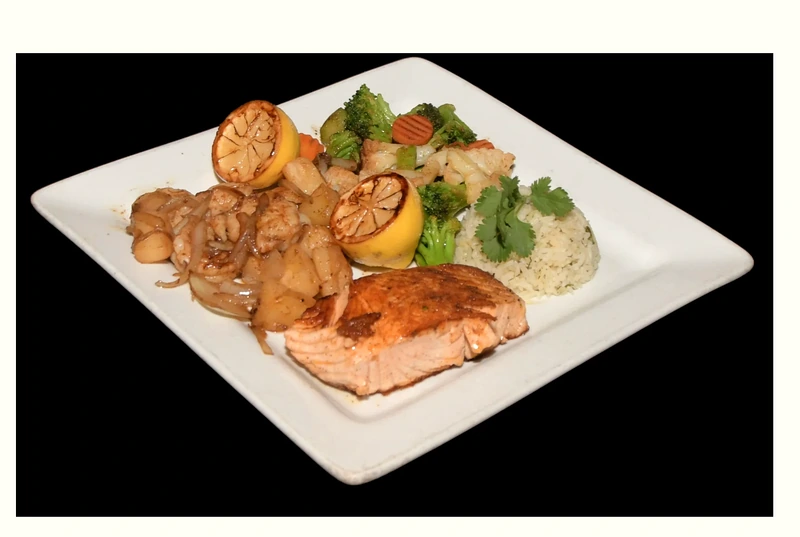
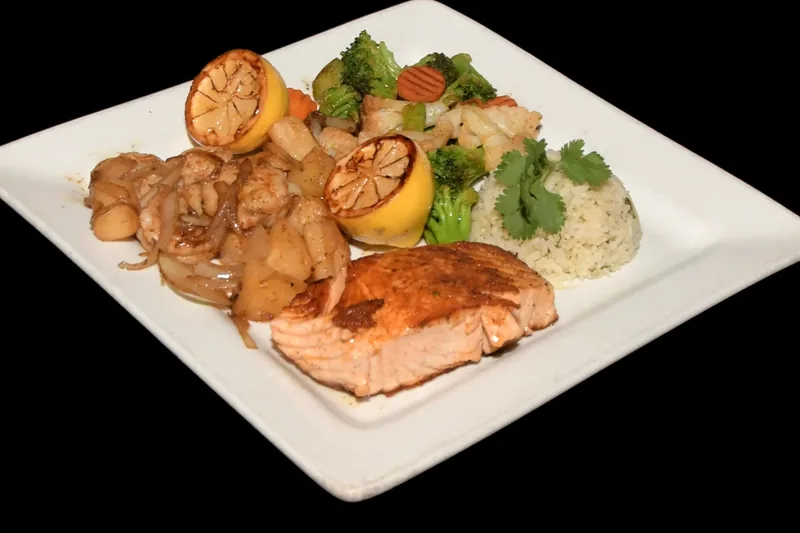
Crop the white matte off the four plate photos
cfs, catfish, tacos and salmon each arrived with a white matte around
the frame. The plates underneath were shot on black, so the matte was
the only light part of the picture: on a near-black page it read as a
white slab interrupting the layout rather than as photography. The
three-up grid on the home page looked like three white cards.

Each web derivative is now cropped to the largest 3:2 rectangle inside
the food, found by flood-filling the seamless backdrop in from the
border. A plain brightness threshold would not do — the plates are white
too, and would have been trimmed along with the backdrop.

Light backdrop as a share of the frame:

  cfs      29.0% -> 1.9%
  tacos    25.5% -> 4.0%
  catfish  23.5% -> 2.1%
  salmon   18.2% -> 0.0%

The crops are smaller than the originals, so each srcset ladder now
stops at the real pixel width rather than upscaling: the 2000w and 2560w
rungs are gone where the source no longer reaches them, and cafe.ts
carries the true intrinsic width and height. Total payload for these
four photos drops by roughly 40%.

The .jpg files are left untouched as the archival originals; re-crop
from those, not from the derivatives. PHOTO-SOURCES.md records this.

public/photos/manifest.json is not read by any code and was already
stale for other entries, but its rows for these four no longer name
deleted files.

Claude-Session: https://claude.ai/code/session_01SY9t9RvGNQkpaYygABwXDT

diff --git a/src/lib/cafe.ts b/src/lib/cafe.ts
@@ -8,16 +8,13 @@ export const CAFE = {
   addressLine: "120 W Center St, Sheridan, AR 72150",
   phoneDisplay: "(870) 942-4163",
   phoneTel: "+18709424163",
-  facebook:
-    "https://www.facebook.com/p/Lady-Birds-Cafe-100089774571141/",
+  facebook: "https://www.facebook.com/p/Lady-Birds-Cafe-100089774571141/",
   mapsDirections:
     "https://www.google.com/maps/dir/?api=1&destination=120+W+Center+St,+Sheridan,+AR+72150",
-  mapsSearch:
-    "https://www.google.com/maps/search/?api=1&query=120+W+Center+St,+Sheridan,+AR+72150",
+  mapsSearch: "https://www.google.com/maps/search/?api=1&query=120+W+Center+St,+Sheridan,+AR+72150",
   mapsEmbed:
     "https://maps.google.com/maps?q=120%20W%20Center%20St%2C%20Sheridan%2C%20AR%2072150&z=16&output=embed",
-  appleMaps:
-    "https://maps.apple.com/?daddr=120+W+Center+St,+Sheridan,+AR+72150",
+  appleMaps: "https://maps.apple.com/?daddr=120+W+Center+St,+Sheridan,+AR+72150",
   timezone: "America/Chicago",
   promise: "Downtown Sheridan. Plate comes out hot.",
   hoursStatus: "directory" as const,
@@ -25,11 +22,7 @@ export const CAFE = {
 } as const;
 
 export type PhotoSource =
-  | "facebook"
-  | "facebook-guest"
-  | "arkansas-living"
-  | "directory-guest"
-  | "directory";
+  "facebook" | "facebook-guest" | "arkansas-living" | "directory-guest" | "directory";
 
 export type Photo = {
   src: string;
@@ -53,42 +46,42 @@ export const photos = {
   catfish: {
     src: "/photos/catfish.webp",
     srcSet:
-      "/photos/catfish-800.webp 800w, /photos/catfish-1400.webp 1400w, /photos/catfish-2000.webp 2000w, /photos/catfish-2560.webp 2560w",
-    width: 2560,
-    height: 1627,
+      "/photos/catfish-800.webp 800w, /photos/catfish-1400.webp 1400w, /photos/catfish-1888.webp 1888w",
+    width: 1888,
+    height: 1259,
     alt: "Fried catfish plate on a metal tray with hush puppies, steak fries, coleslaw, fried corn, and shrimp",
     source: "arkansas-living",
   },
   cfs: {
     src: "/photos/cfs.webp",
-    srcSet:
-      "/photos/cfs-800.webp 800w, /photos/cfs-1400.webp 1400w, /photos/cfs-2000.webp 2000w, /photos/cfs-2560.webp 2560w",
-    width: 2560,
-    height: 1690,
+    srcSet: "/photos/cfs-800.webp 800w, /photos/cfs-1400.webp 1400w, /photos/cfs-1973.webp 1973w",
+    width: 1973,
+    height: 1315,
     alt: "Chicken fried steak with cream gravy, mashed potatoes, and green beans",
     source: "arkansas-living",
   },
   tacos: {
     src: "/photos/tacos.webp",
     srcSet:
-      "/photos/tacos-800.webp 800w, /photos/tacos-1400.webp 1400w, /photos/tacos-2000.webp 2000w, /photos/tacos-2560.webp 2560w",
-    width: 2560,
-    height: 1573,
+      "/photos/tacos-800.webp 800w, /photos/tacos-1400.webp 1400w, /photos/tacos-1920.webp 1920w",
+    width: 1920,
+    height: 1280,
     alt: "Firecracker tacos with fried shrimp, cabbage, pico de gallo, avocado, and salsa",
     source: "arkansas-living",
   },
   salmon: {
     src: "/photos/salmon.webp",
     srcSet:
-      "/photos/salmon-800.webp 800w, /photos/salmon-1400.webp 1400w, /photos/salmon-2000.webp 2000w, /photos/salmon-2560.webp 2560w",
-    width: 2560,
-    height: 1719,
+      "/photos/salmon-800.webp 800w, /photos/salmon-1400.webp 1400w, /photos/salmon-2000.webp 2000w, /photos/salmon-2175.webp 2175w",
+    width: 2175,
+    height: 1450,
     alt: "Caribbean salmon with cilantro rice, grilled vegetables, shrimp, and pineapple",
     source: "arkansas-living",
   },
   exterior: {
     src: "/photos/exterior.webp",
-    srcSet: "/photos/exterior-800.webp 800w, /photos/exterior-1200.webp 1200w, /photos/exterior-1600.webp 1600w, /photos/exterior-2560.webp 2560w",
+    srcSet:
+      "/photos/exterior-800.webp 800w, /photos/exterior-1200.webp 1200w, /photos/exterior-1600.webp 1600w, /photos/exterior-2560.webp 2560w",
     width: 2560,
     height: 1072,
     alt: "Lady Birds Cafe in a red brick building on Center Street, with a teal bird mural by the door",
@@ -96,7 +89,8 @@ export const photos = {
   },
   servers: {
     src: "/photos/servers.webp",
-    srcSet: "/photos/servers-800.webp 800w, /photos/servers-1200.webp 1200w, /photos/servers-1600.webp 1600w, /photos/servers-2400.webp 2400w",
+    srcSet:
+      "/photos/servers-800.webp 800w, /photos/servers-1200.webp 1200w, /photos/servers-1600.webp 1600w, /photos/servers-2400.webp 2400w",
     width: 2400,
     height: 2286,
     alt: "Servers in the dining room at Lady Birds Cafe",
@@ -112,7 +106,8 @@ export const photos = {
   },
   bird: {
     src: "/photos/fb-bird.webp",
-    srcSet: "/photos/fb-bird-600.webp 600w, /photos/fb-bird-960.webp 960w, /photos/fb-bird-1600.webp 1600w",
+    srcSet:
+      "/photos/fb-bird-600.webp 600w, /photos/fb-bird-960.webp 960w, /photos/fb-bird-1600.webp 1600w",
     width: 1600,
     height: 1135,
     alt: "Painted bird over a nest of food — Lady Birds Cafe Facebook page photo",

diff --git a/PHOTO-SOURCES.md b/PHOTO-SOURCES.md
@@ -21,6 +21,20 @@ No generated plates. No invented prices, reviews, or owner story on the site.
 | `fajitas` | Chicken / steak / shrimp skillet | Public guest photo via Wheree directory listing of Lady Birds | Directory-guest |
 | `fish-tacos` | Fish tacos, vertical plate | Public Yelp diner photo (`bphoto/11jUr302JELGDpw8nehIFA`) | Directory-guest |
 
+### Plate crops
+
+`cfs`, `catfish`, `tacos` and `salmon` reached us with a white matte around the
+frame. The plates underneath were shot on black, so the matte was the only light
+part — on a near-black page it read as a white slab rather than photography.
+
+The web derivatives (`.webp`) are cropped to the largest 3:2 rectangle inside the
+food, which drops the light backdrop from 18–29% of the frame to 0–4% and leaves
+the plates on the black they were shot on. Crops are tighter than the originals,
+so the srcset ladders stop at the real pixel width instead of upscaling.
+
+The `.jpg` files are the untouched originals — re-crop from those, not from the
+derivatives.
+
 Restaurantji’s 31-photo set is cited in the job but the gallery is Cloudflare-blocked from this build seat. Yelp’s 34-photo page is 403. Facebook food albums beyond the public profile image require login. Used every public Facebook frame that resolved: the page bird, plus the guest tray post.
 
 Not used: stock interiors, AI plates, Google rating widget (4.6 / 405 could not be re-verified on Maps).
